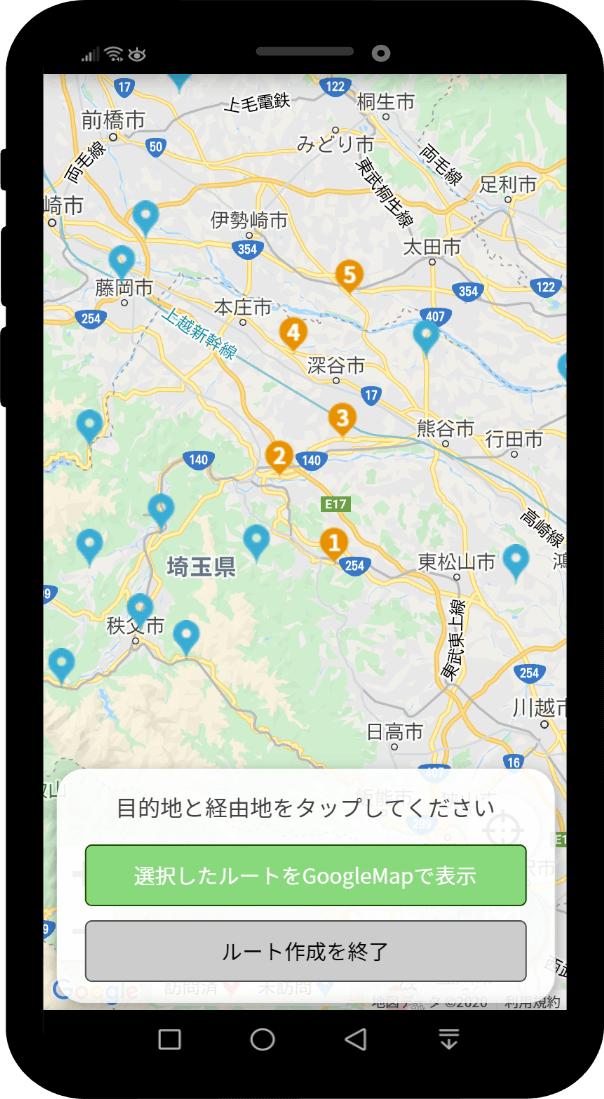
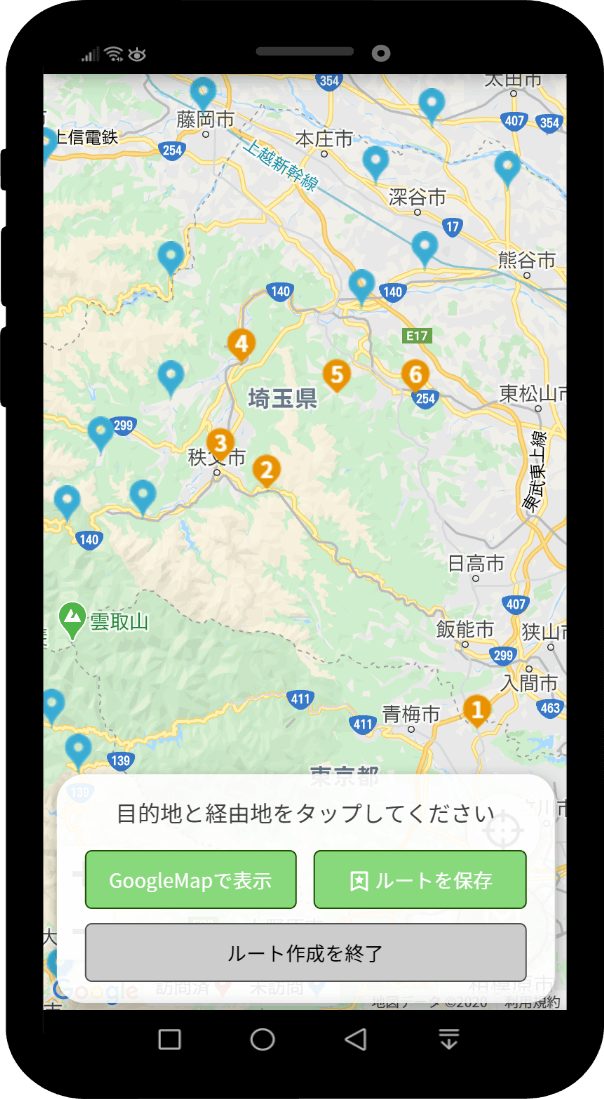
ver1.6.0アップデート追加

diff --git a/works/michimegu/js/news.js b/works/michimegu/js/news.js
@@ -5,6 +5,11 @@ $(function () {
     'event': 'イベント',
   }
   const newsList = {
+    202020506: {
+      date: '2020.05.06',
+      genre: 'update',
+      title: '【ver1.6.0】<a href="./functions/route/">作成したルートを保存</a>する機能が追加されました。',
+    },
     202020503: {
       date: '2020.05.03',
       genre: 'update',
